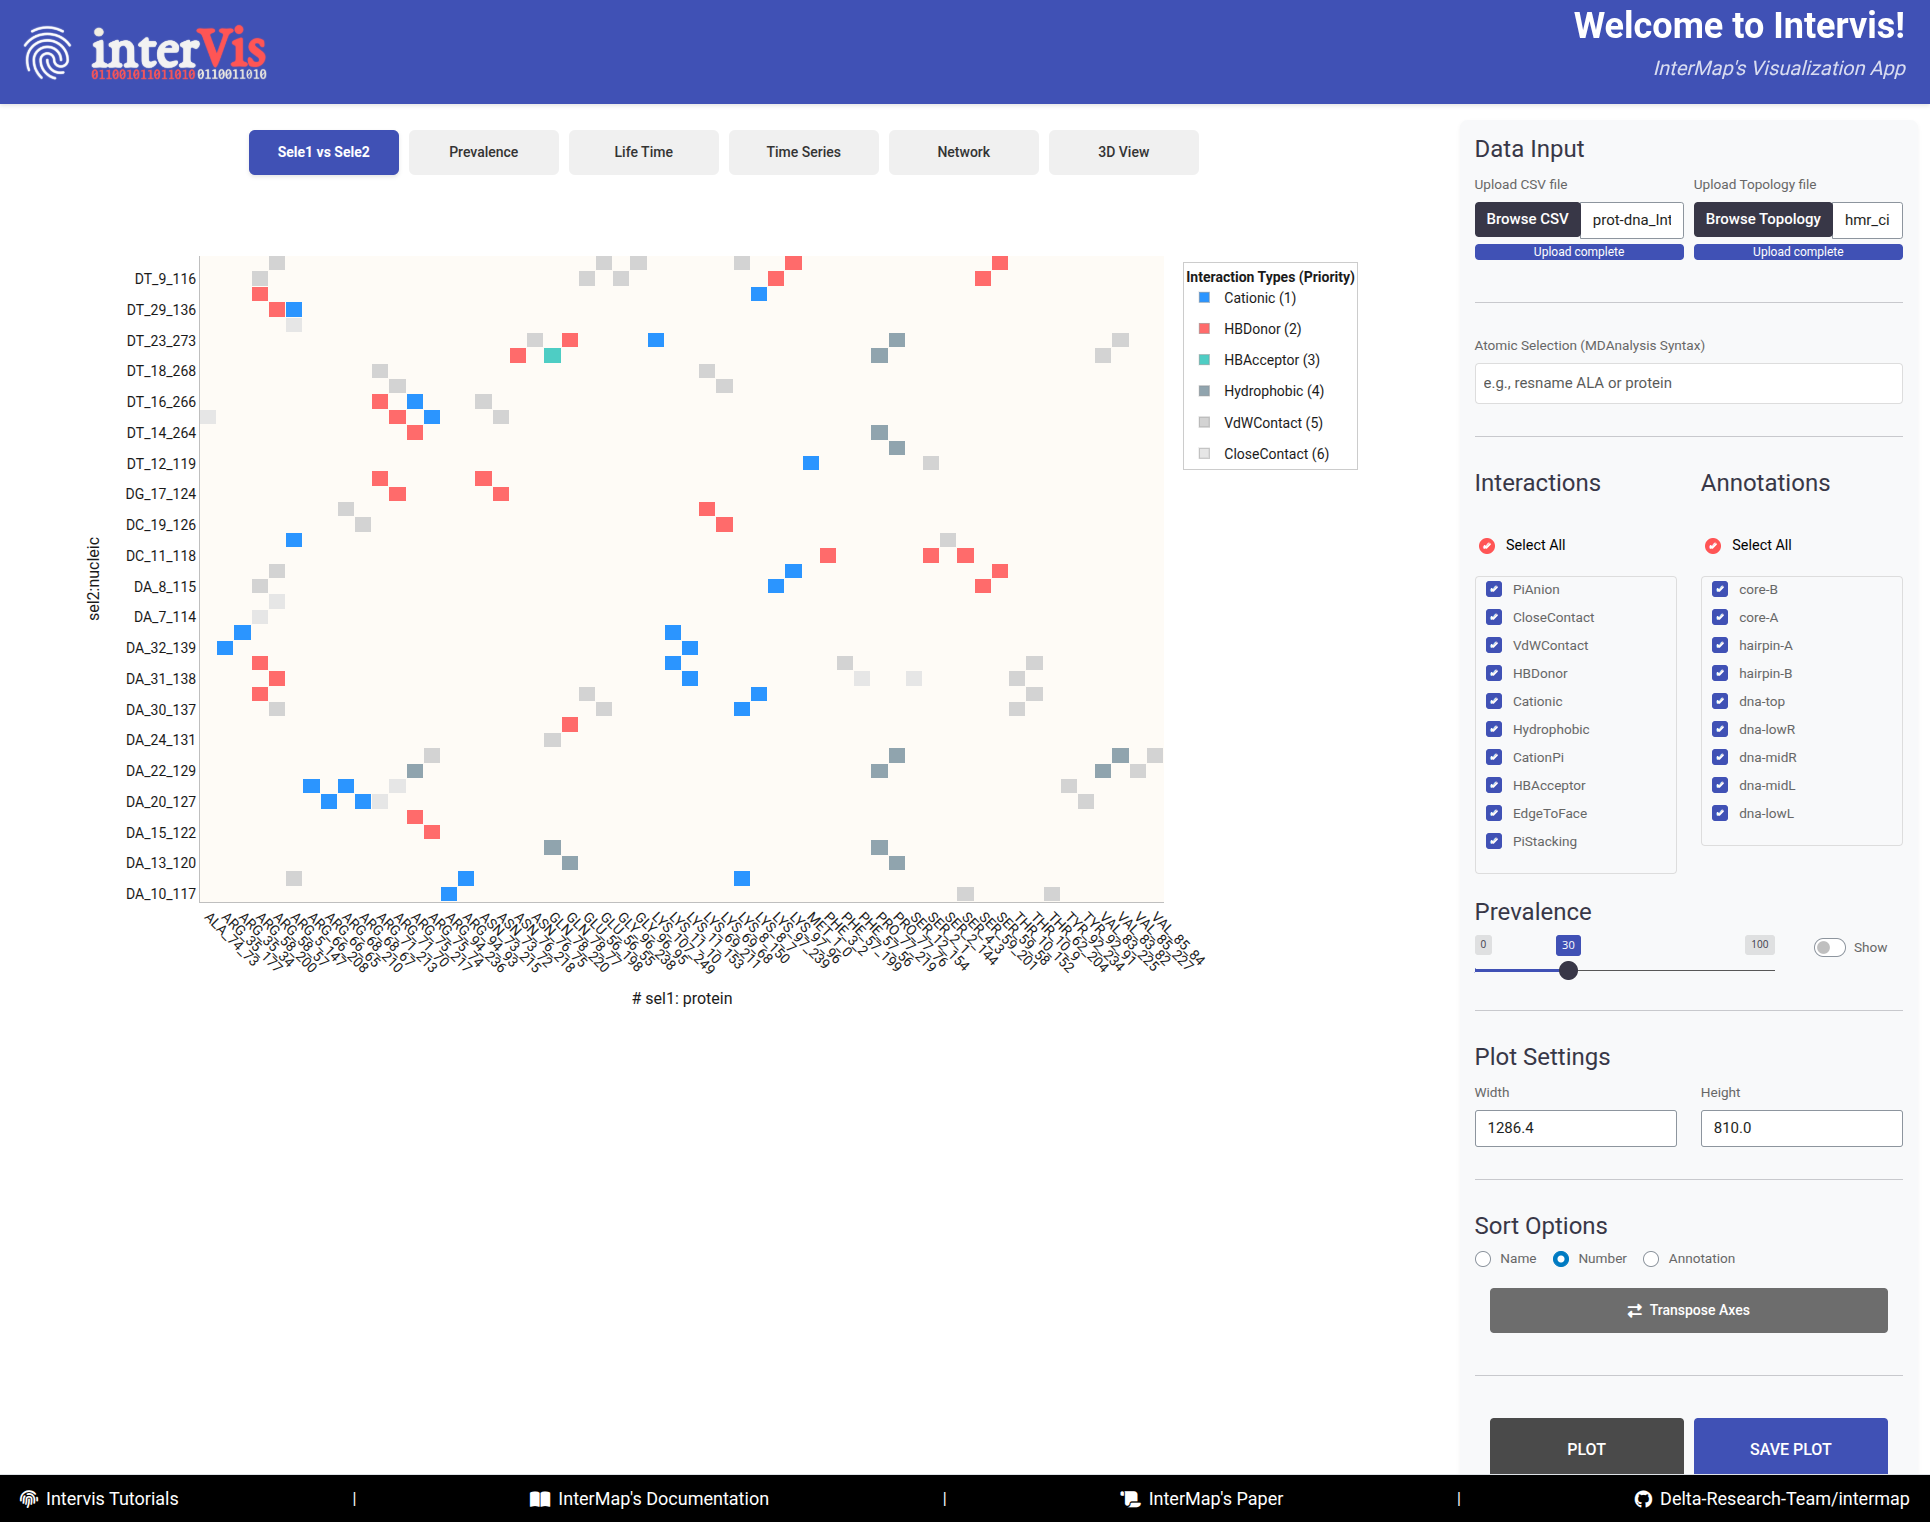
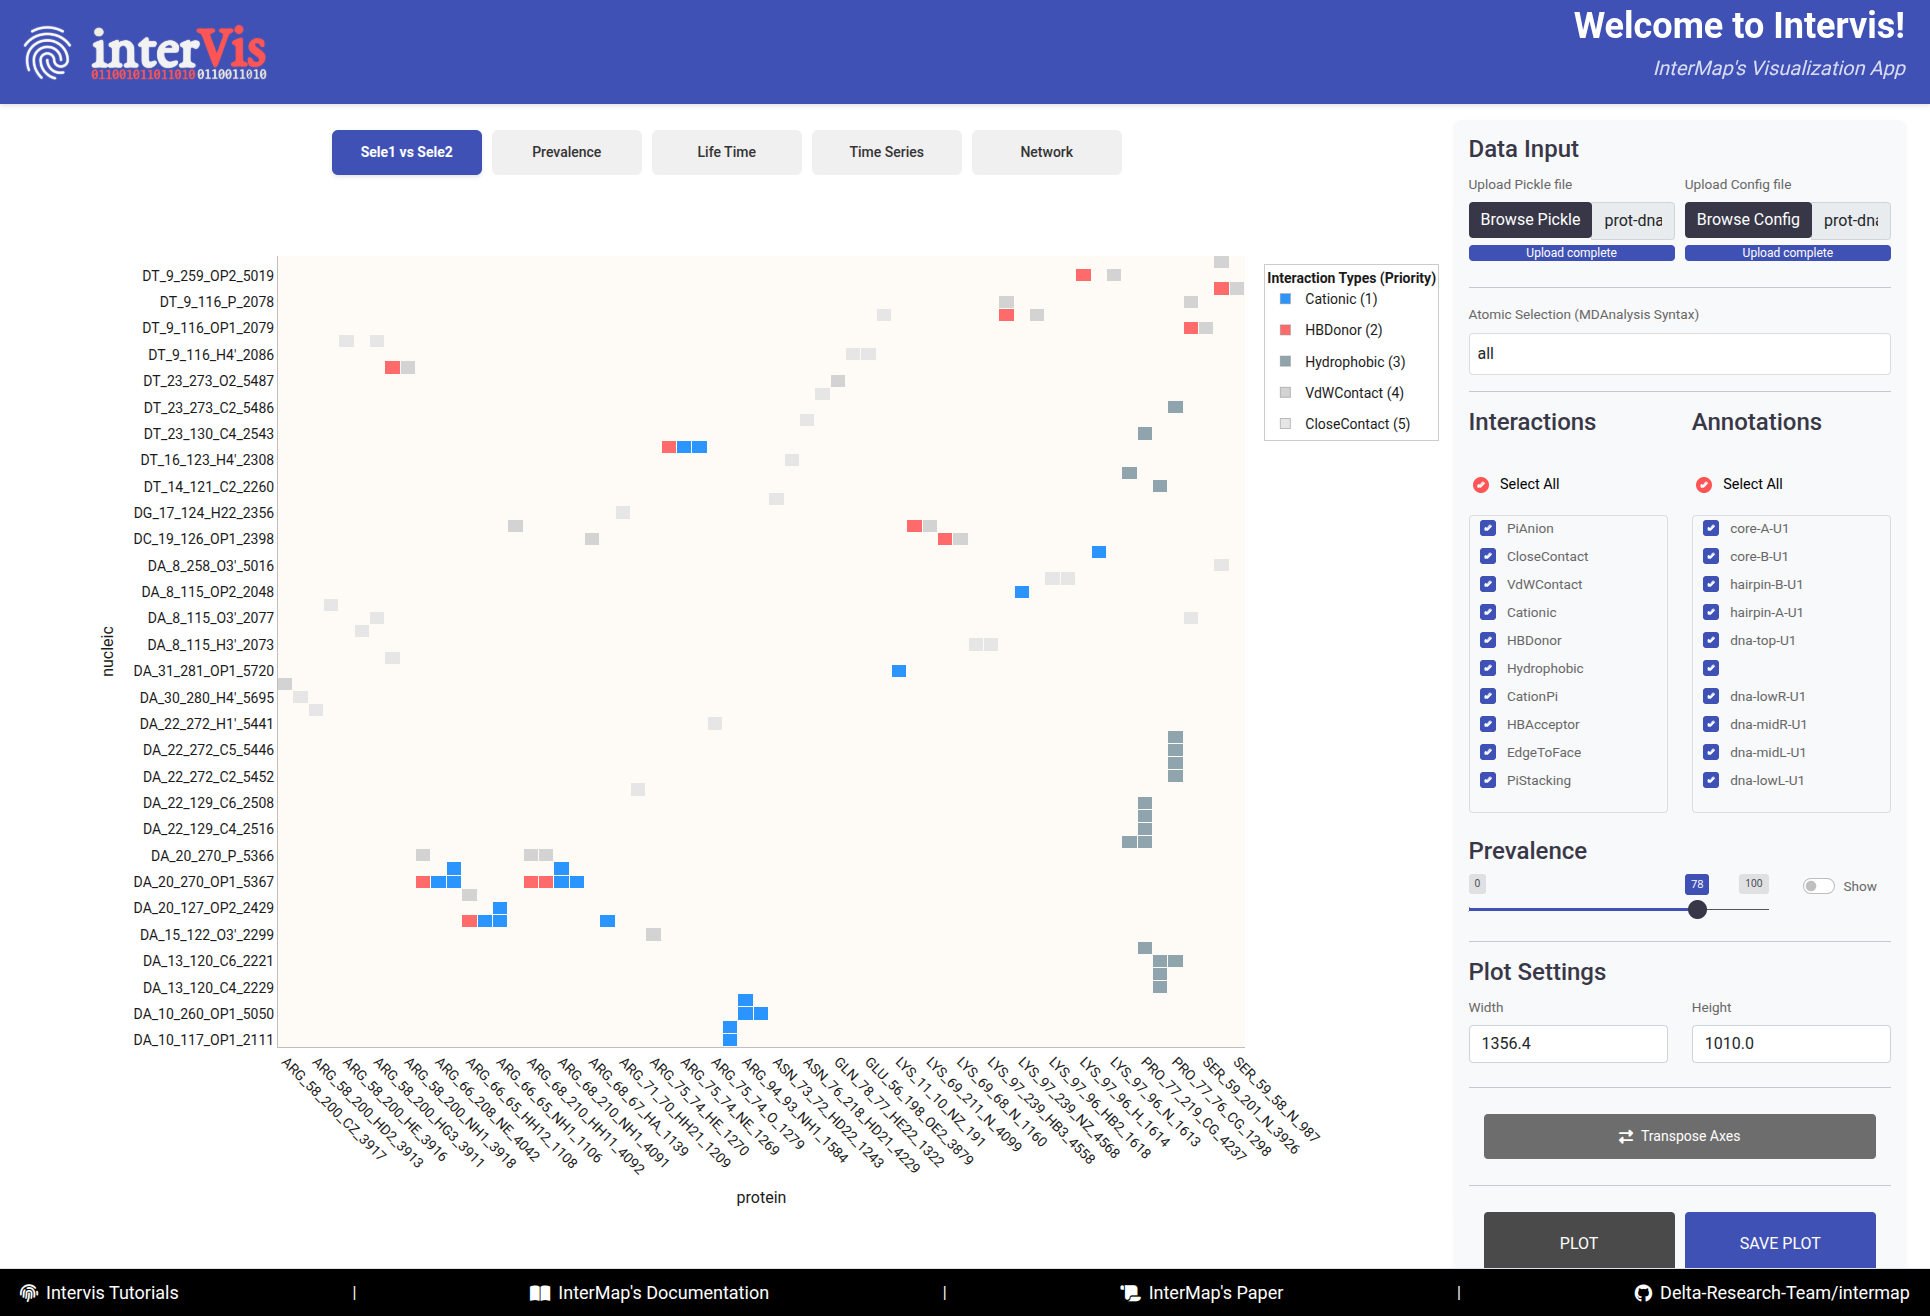
[WP] Working on intervis documentation

diff --git a/docs/intervis.md b/docs/intervis.md
@@ -39,43 +39,66 @@ The InterVis interface consists of three main areas:
 
 ??? note "Upload InterMap CSV File"
 
-    - Click on **"Browse CSV"**
-    - Select the interaction fingerprint file generated by InterMap
+    Pickle File (.pickle): Contains the raw interaction data calculated by InterMap.
+
+    - Click on "Browse Pickle" to upload this file.
+
+    - Select the interaction fingerprint file generated by InterMap.
 
 ??? note "Upload Topology File"
 
-    - Click on **"Browse Topology"**
-    - Supported formats: .pdb, .gro, .psf, etc.
+    Configuration File (.cfg): Contains parameters used during the InterMap analysis.
+
+    - Click on "Browse Config" to upload this file.
+
+    - Select the configuration file used to run InterMap that generated the previously uploaded pickle file.
+
 
 ??? note "Atom/Residue Selection (Optional)"
 
     - Filter interactions using MDAnalysis selection syntax
 
-    !!! example
+    !!! example "MDAnalysis Selection Examples"
     ```
-    - "resname ALA"
-    - "protein"
+    - "protein"                                          # All protein atoms
+    - "resname ALA"                                      # All alanine residues
+    - "protein and name CA"                              # Alpha carbon atoms in proteins
+    - "resid 10 to 30"                                   # Residues with IDs from 10 to 30
+    - "within 5 of resname LIG"                          # Atoms within 5Å of ligand residues
+    - "(resname ALA or resname VAL) and not name H*"     # Non-hydrogen atoms in alanine or valine residues
     ```
 
 ### 3.2. Filter Options
 
 ??? note "Interaction Filter"
 
-    - Use the **Interaction Selector** to list all detected interaction types
-    - Select one or multiple types
-    - Click **"Select All"** to toggle all options
+    **Note:** Upon uploading the `.pickle` file, InterVis will automatically detect all stored interactions and display them in this panel.
+
+    - Select one or multiple types.
+
+    - Click **"Select All"** to toggle all options.
 
 ??? note "Annotation Filter"
 
-    - Filter interactions based on custom annotations
-    - Useful for focusing on specific regions or labels
-    - Can be combined with other filters
+    **Note:** All annotations saved in the `.pickle` file are automatically detected and listed in the annotation filter panel.
+    
+    - Filters interactions based on custom annotations.
+
+    - Useful for focusing on specific regions or labels.
+
+    - Can be combined with other filters.
+
+    - Click **"Select All"** to toggle all options.
 
 ??? note "Prevalence Threshold"
 
+    **Default Value:** When the files are loaded, InterVis automatically assigns a default prevalence threshold of **30%**.
+
     - Adjust minimum prevalence (0–100%)
+
     - Affects all visualizations simultaneously
-    - Option to show/hide numeric values on plots
+
+    - **Show Value:** Option to show/hide numeric values on plots
 
 ## 4. Tabs and Visualizations
 
@@ -226,31 +249,3 @@ Interactive molecular network view.
 - Zoom and pan
 - Hover to reveal details
 - Automatic layout adjustments
-
-### 4.6. Tab 6: 3D View
-
-3D structure and interaction display.
-
-![Interaction Network](assets/Tab_6.png){ width="100%" }
-
-
-**`Main Controls:`**
-
-1. **Visibility Options**
-    - Show/Hide structure
-    - Show/Hide interactions
-2. **Molecular Styles**
-    - **Cartoon**: Ribbon-style
-    - **Stick**: Lines for bonds
-    - **Ball and Stick**: Atoms + bonds
-    - **Sphere**: Atom-centered spheres
-    - **Cartoon and Stick**: Combined mode
-3. **Visualization Settings**
-    - **Sphere Size**: Interaction marker size
-    - **Line Width**: Thickness of interaction edges
-
-**`Structural Analysis:`**
-
-- Contextualize interactions
-- Visualize spatial proximity
-- Identify structural patterns
